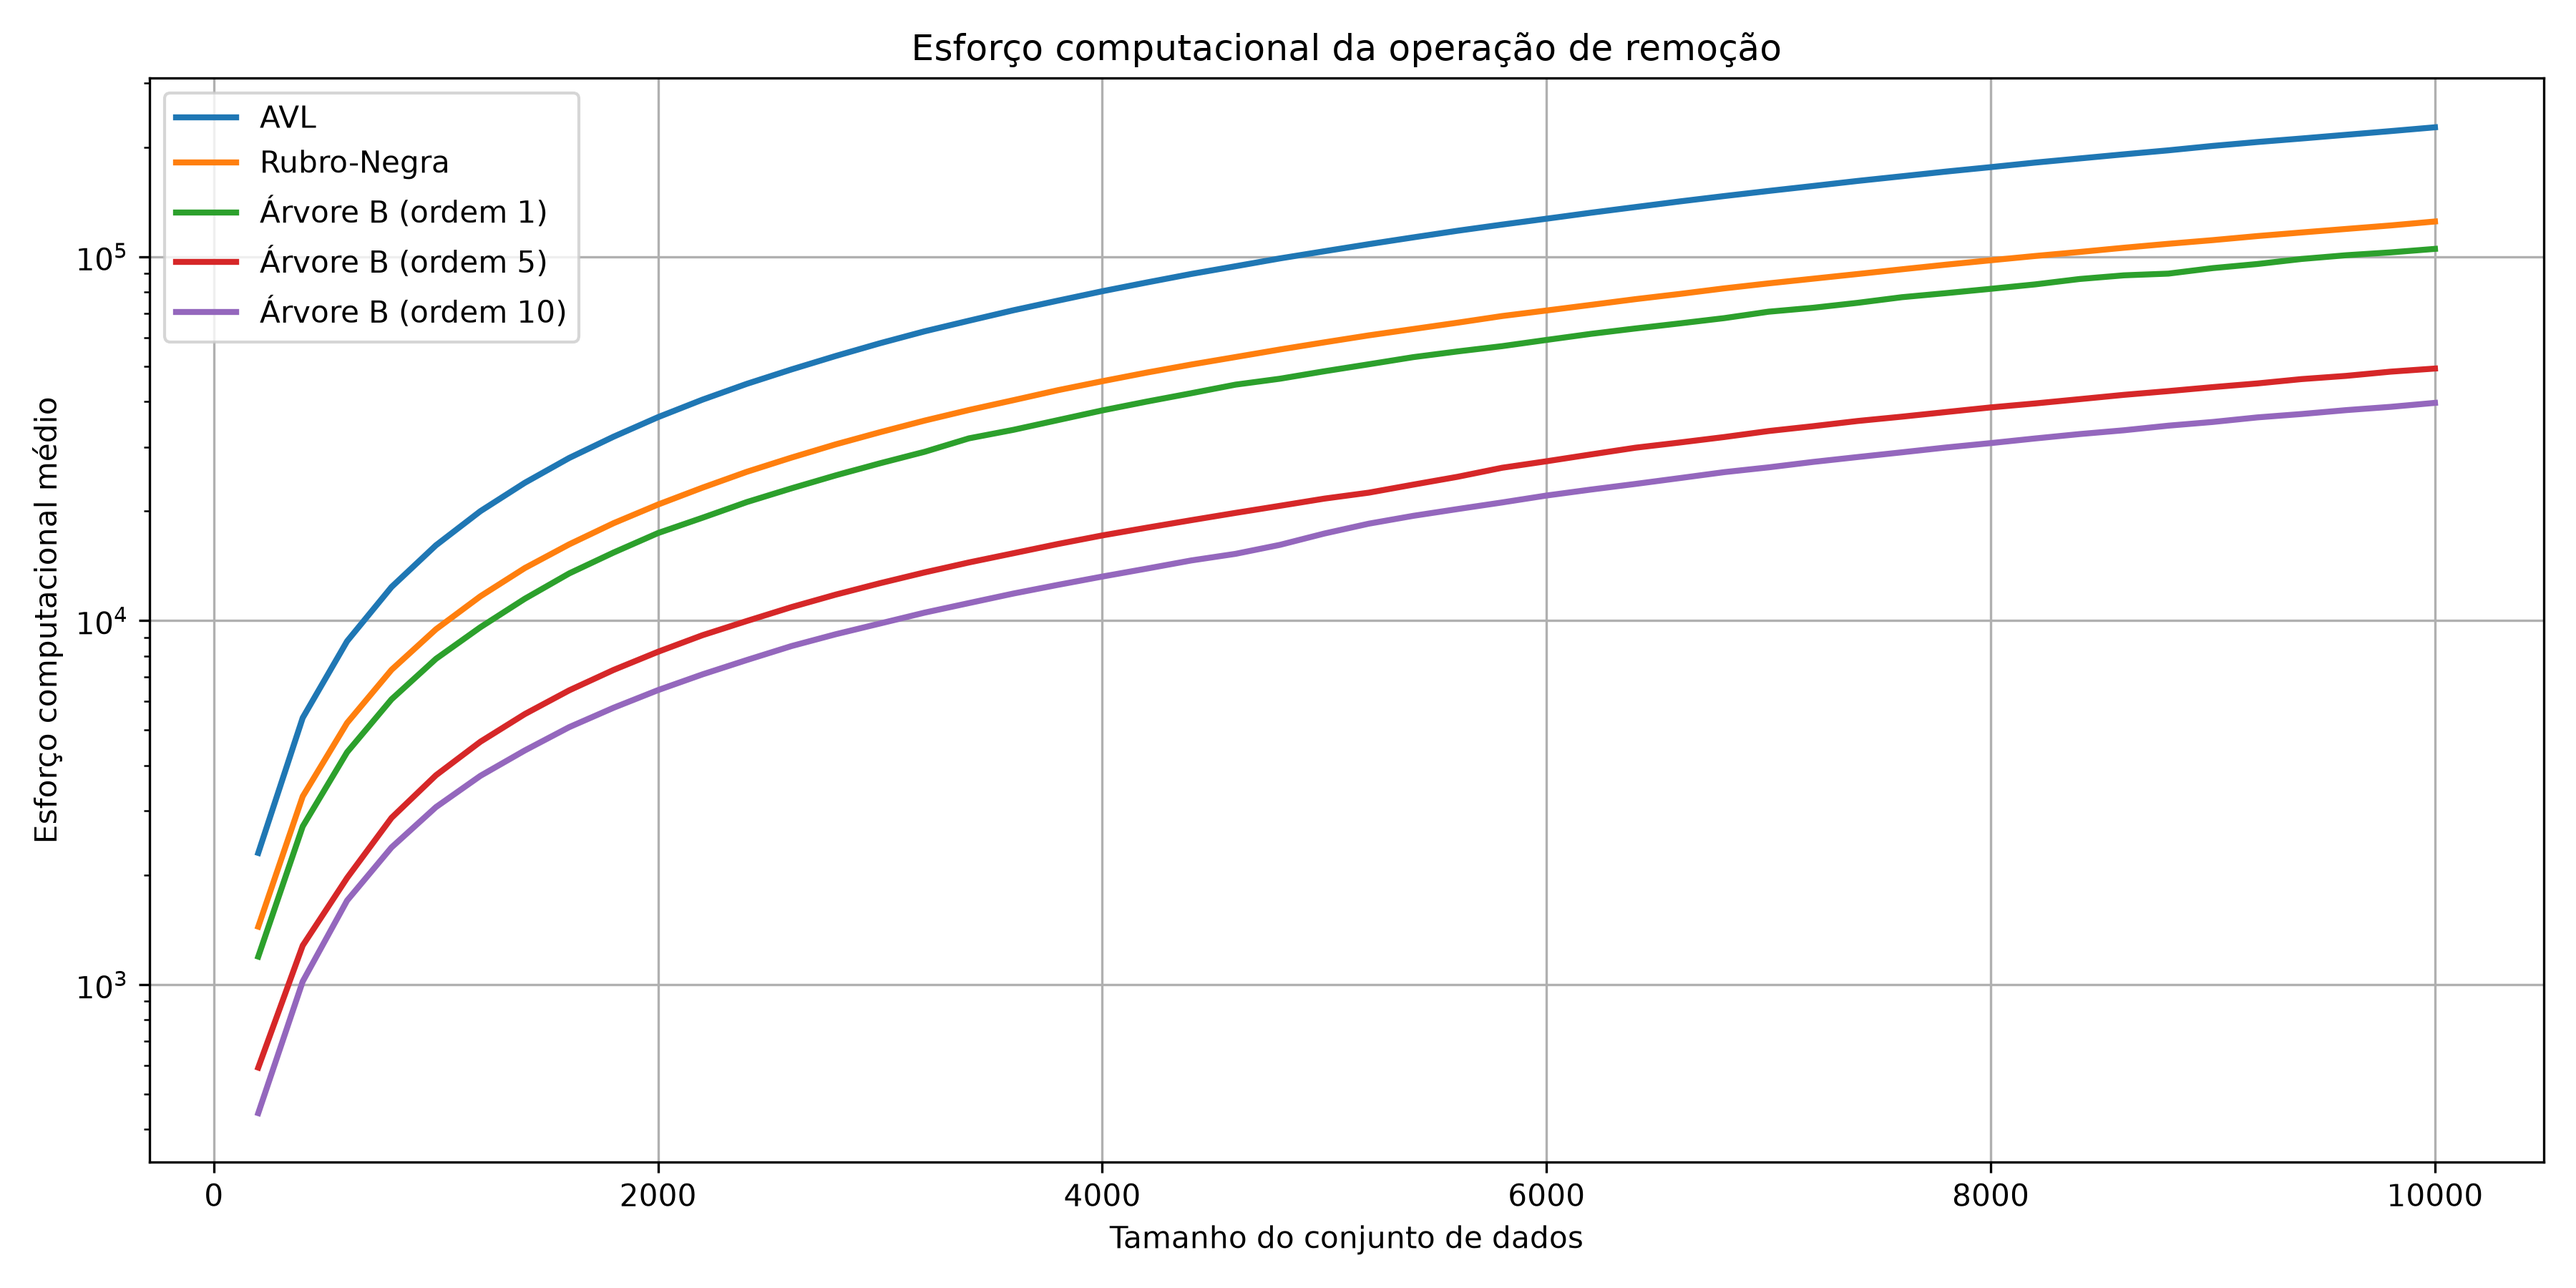
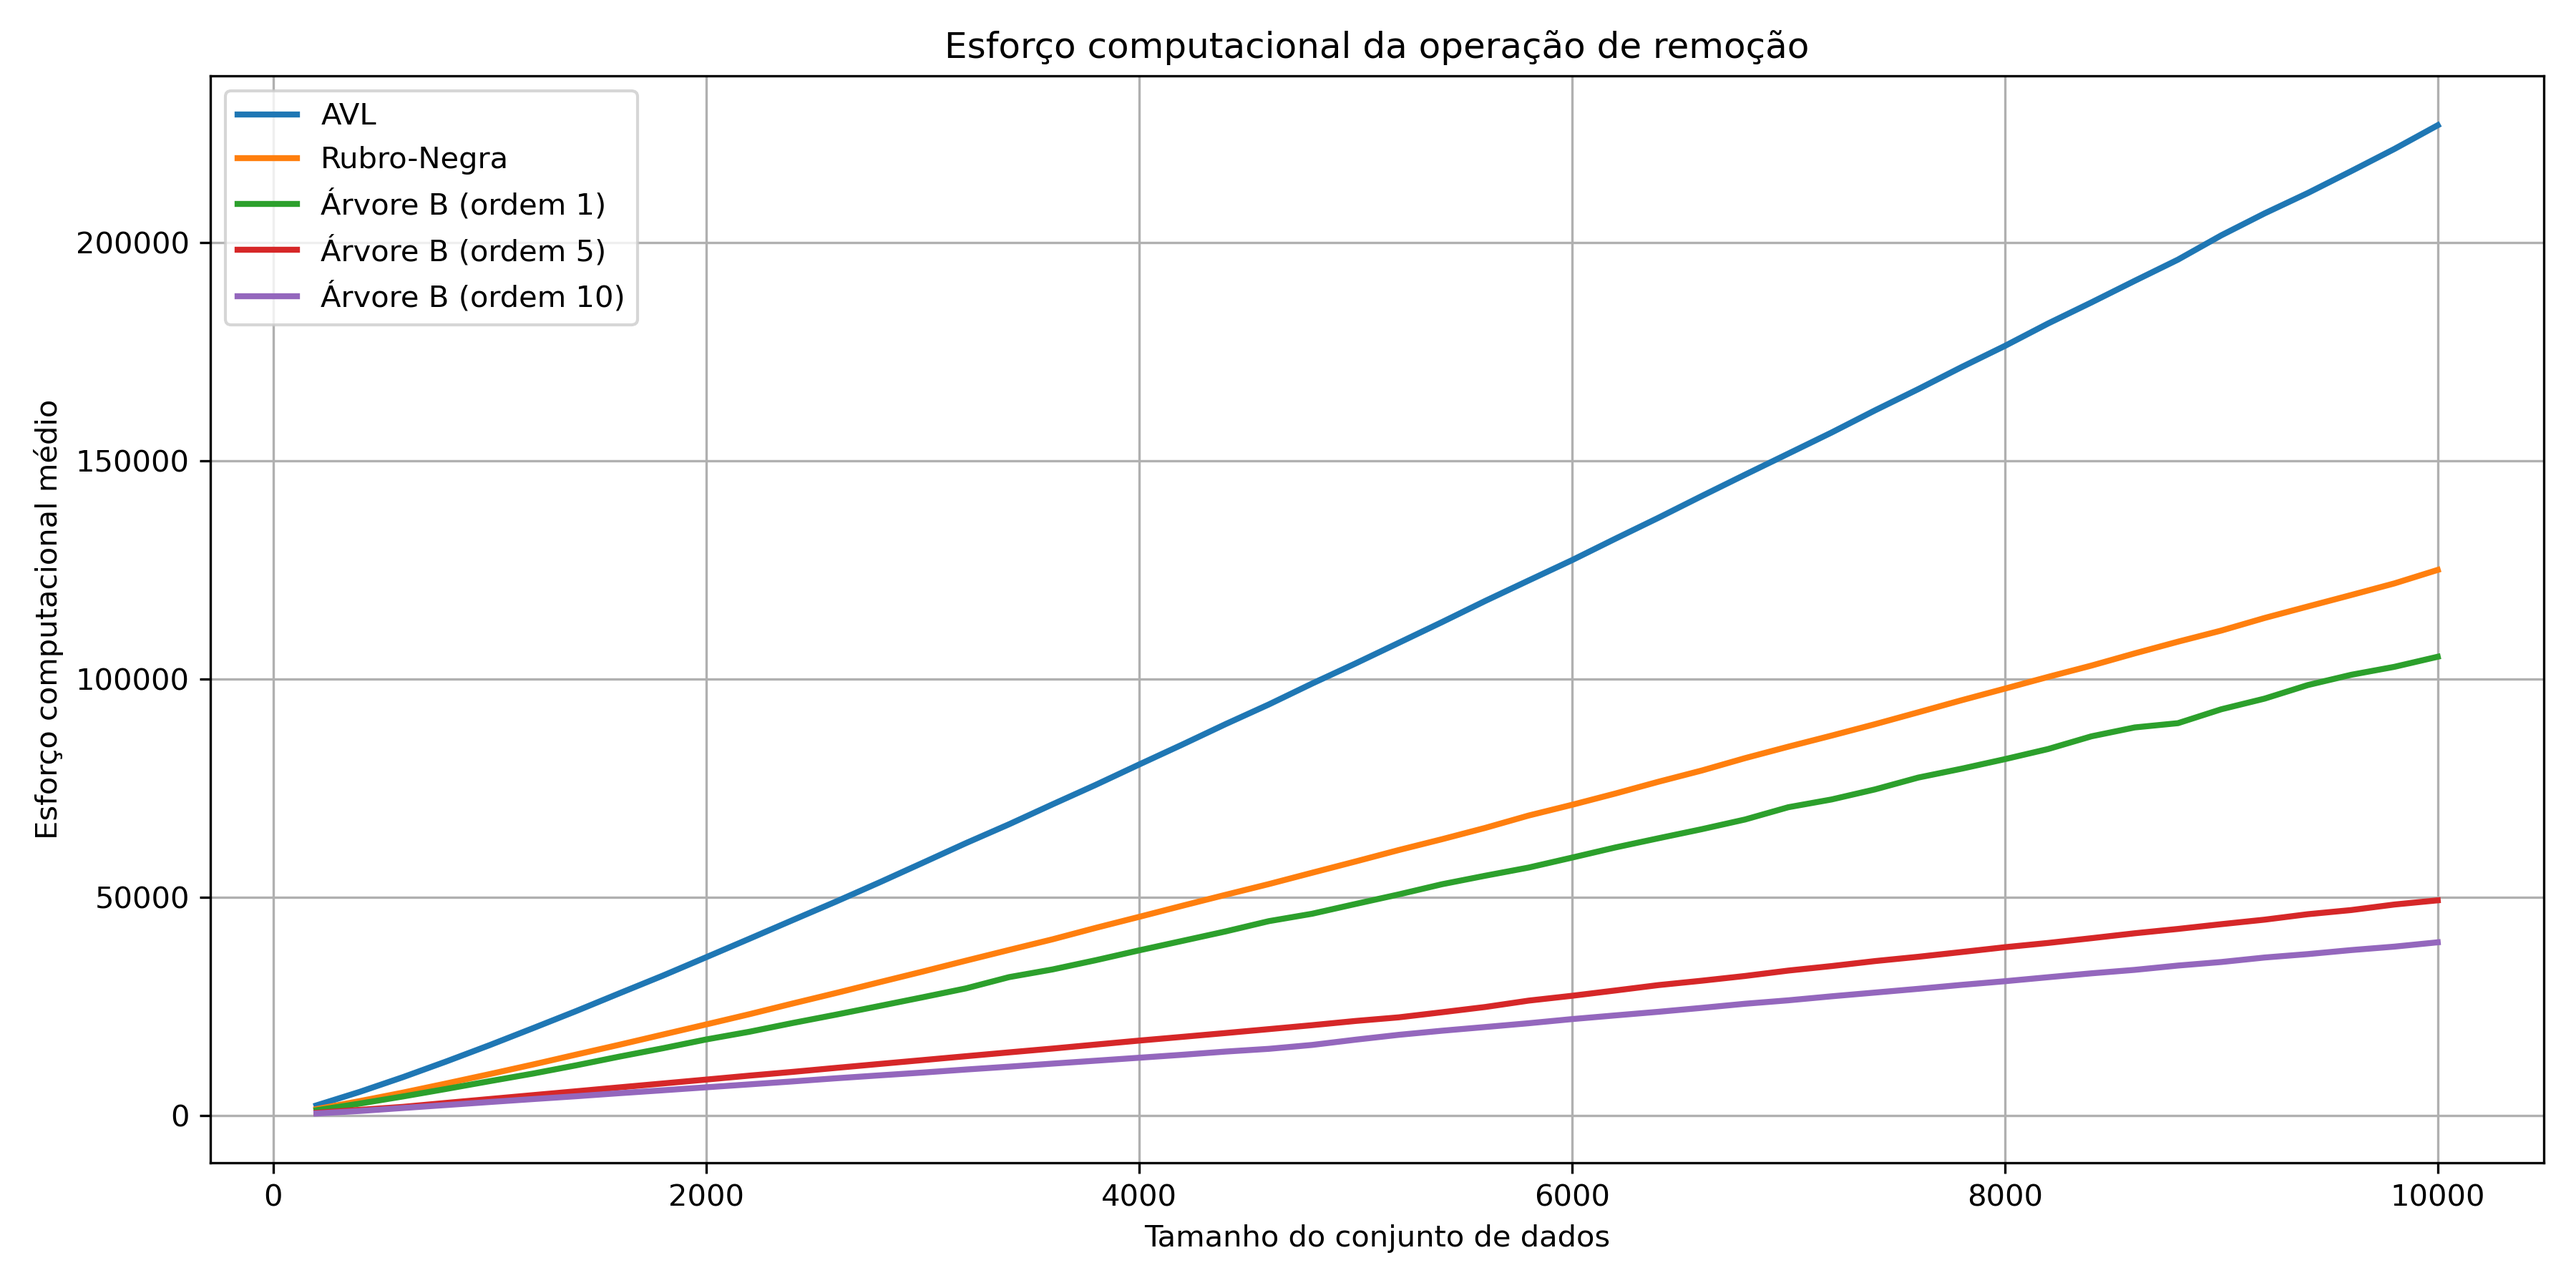
e: The graphics are now generated with linear scale

diff --git a/4EDA2/trabalho/graficos.py b/4EDA2/trabalho/graficos.py
@@ -31,7 +31,7 @@ plt.title("Esforço computacional da operação de insercao")
 plt.xlabel("Tamanho do conjunto de dados")
 plt.ylabel("Esforço computacional médio")
 
-plt.yscale("log")
+# plt.yscale("log")
 
 plt.grid(True)
 plt.legend()
@@ -51,7 +51,7 @@ plt.title("Esforço computacional da operação de remoção")
 plt.xlabel("Tamanho do conjunto de dados")
 plt.ylabel("Esforço computacional médio")
 
-plt.yscale("log")
+# plt.yscale("log")
 
 plt.grid(True)
 plt.legend()
